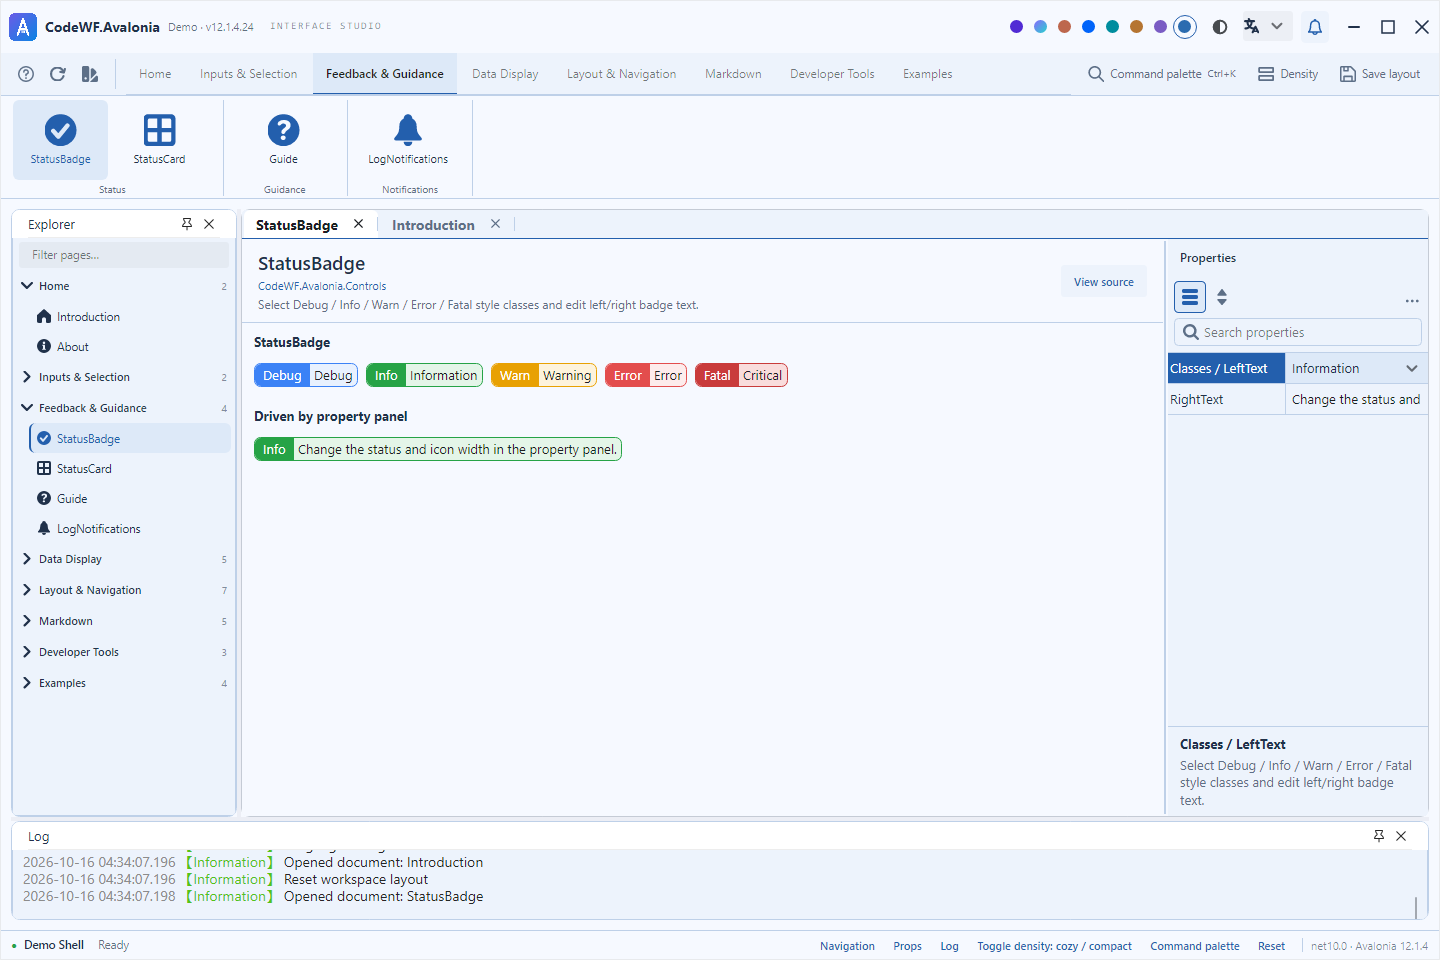
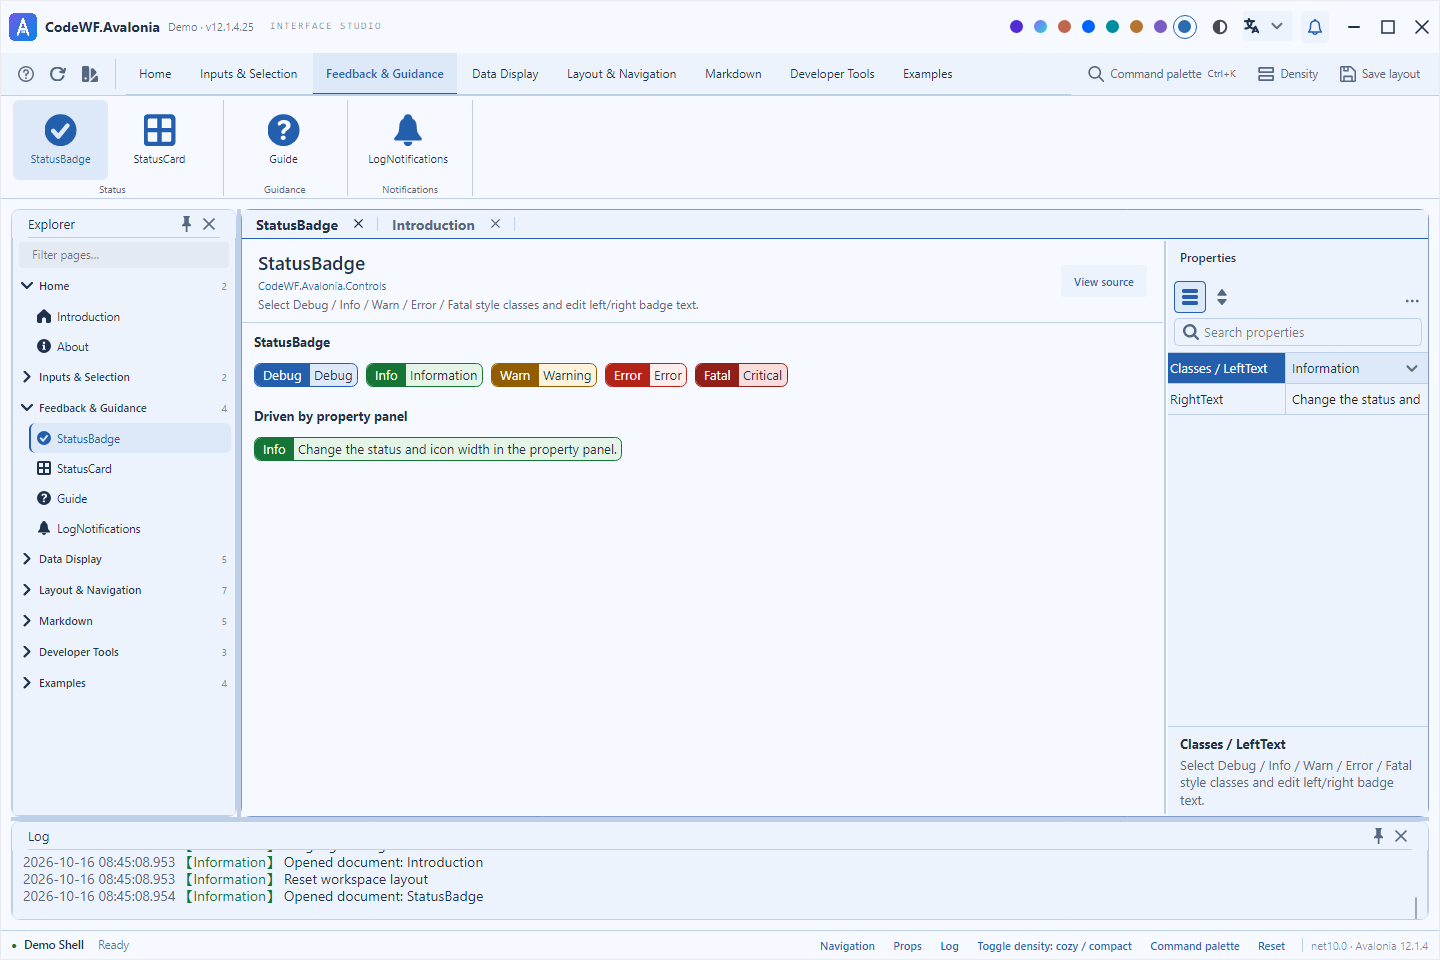
文档：记录12.1.4.25原生验收并更新真实停靠截图

diff --git a/docs/ThemeVerification.md b/docs/ThemeVerification.md
@@ -1,0 +1,44 @@
+# 配色回归与验收范围
+
+## 资源规则
+
+Studio 的八套配色各自定义浅色、深色资源；系统模式只选择明暗，不改变配色。配色源为 `src/Controls/CodeWF.Avalonia.Controls/Themes/Studio/Tokens/`，不在 C# 中根据颜色字面量推断主题。
+
+- `StudioAccent` 用于文字、图标、焦点和装饰；`StudioPrimary` 用于实心主操作。明亮装饰色不能直接与白字组合。
+- 主操作的 normal / hover / pressed 分别使用 Primary / PrimaryHover / PrimaryPressed，文字使用 OnPrimary。禁用态另用禁用资源，不以禁用样式覆盖正常态。
+- 成功、警告、失败和调试保留各自语义色；徽章的实心背景、卡片的柔和背景分别配套前景，不将所有状态都改成品牌色。
+- 文字优先使用动态资源。Markdown 编辑器、脑图和通知先尊重控件、窗口、宿主资源，再使用库默认值；切换主题时已有控件也需要更新。
+- 通知默认资源位于样式资源的低优先级位置，避免库默认值压过宿主同键资源。通知文案来自内嵌 JSON，与宿主使用同一个语言实例。
+
+库不引用 Studio 时仍提供独立 Semi Light / Dark 和原有高对比变体。Studio 原型的 CSS 色值由 `scripts/sync_design_catalog.ps1` 从同一批原生资源生成，禁止手工维护第二份颜色表。
+
+## 本轮修复
+
+`12.1.4.25` 修复徽章、状态卡片、Guide、列编辑器、下拉框、斜线、传输箭头、表格、Dock、属性面板、Markdown 行号与选区、脑图、日志及通知中的实际颜色问题。Demo 同步修复 Ribbon、命令搜索、工作流、窗口示例和状态文字；默认蓝色的 Light / Dark 也覆盖实心按钮、勾选框、滑块等第三方主题资源别名，避免只有扩展配色生效。
+
+Markdown 代码行号按代码块实际背景决定前景，不用窗口明暗猜测；代码选区采用不透明背景，避免与不同排版主题合成后使白字不可读。装饰渐变与承载白字的操作渐变分开，操作渐变连同中间插值一起检查。
+
+## 自动回归入口
+
+```powershell
+dotnet test tests/CodeWF.Avalonia.Controls.Tests -c Release
+dotnet test tests/CodeWF.Avalonia.Content.Tests -c Release
+pwsh scripts/sync_design_catalog.ps1 -Check
+pwsh scripts/sync_localization_keys.ps1 -Check
+$env:CODEWF_AUDIT_OUTPUT = 'E:/github/temp/codewf-prototype-audit'
+node design/tests/audit-prototype.cjs
+node design/tests/audit-palette.cjs
+dotnet run --project scripts/localization-verification -c Release -- --palette-audit E:/github/temp/codewf-palette-audit
+```
+
+测试加载真实模板，连续切换同一批控件的主题，并操作鼠标、编辑器和已打开的通知；不只检查资源字典中有没有颜色。普通启用态文字对最终背景至少 4.5:1，作为可辨认控件边界的图形另按 3:1 检查；禁用控件验证禁用、恢复和资源归属，不套用启用文字阈值。表格同时检查正文、表头、选中项、浮动窗口与属性弹层。
+
+原型检查使用浏览器读取最终前景和逐层合成背景，覆盖两种语言、16 个配色与明暗组合。安装器原型另有 `design/tests/audit-installer.cjs`，属于待验收提案，不修改现有安装器。
+
+两套 Demo 的 CI 在完整原生 UI 回归后，使用同一个 NativeAOT 验证器执行 `--palette-audit`；配色审计失败会阻断 CI，不只依赖本机手动运行。该检查不增加另一次原生编译。
+
+## 验收边界
+
+颜色对比通过不等于所有页面视觉一致，也不等于整页已达到 95% 还原。主题跟随、控件交互、库资源覆盖、正式 NativeAOT EXE 自检与独立原生 UI 验证分别留存结果，不能互相替代。
+
+自动离屏验证不操作用户桌面。系统窗口装饰、多 DPI、跨屏、IME、读屏软件、手工拖出和安装/升级/卸载仍需实机验收；Linux/macOS 的构建产物也不能替代对应系统上的交互验收。

diff --git a/README.md b/README.md
@@ -168,6 +168,8 @@ public class MyMarkdownThemes : MarkdownThemes
 
 ## 演示应用 / Demo
 
+八套配色的深浅资源、真实控件交互态和对比度回归见[配色验证说明](docs/ThemeVerification.md)。统一 .NET 紫安装体验见[单文件交互原型](design/CodeWF.安装器原型.html)，当前为待验收设计，尚未应用于实际安装器。
+
 Demo 保留 Ribbon + Dock，按输入与选择、反馈与引导、数据展示、布局与导航、Markdown、开发工具分类；每个主菜单对应一个具体控件或 API。首页先展示目录，组合工作流集中到“综合示例”。新增展开动画独立页，块编辑、平面表格增强与状态卡片提供具体用例。共享主题接口、MVVM 约定与截图检查见 [原生演示台文档](docs/NativeDemo.md)。
 
 文档内使用 Grid + GridSplitter 放置演示与独立属性面板，浮动时整体移动。命令区进一步按状态、引导、表格、窗口、布局动效、Markdown 阅读 / 编辑 / 导出等用途分组。参数与演示优先展示，源码按需打开；长 API 名保持完整，窄窗口可横向滚动。仓库通过 `global.json` 选择稳定版 .NET 10 SDK。
@@ -178,15 +180,15 @@ Each Dock document contains its demonstration and property panel; both move toge
 
 Windows x64 NativeAOT Demo：标题栏仅保留平铺八色点，模式复用 Ursa 三态按钮，语言图标弹出列表，默认 .NET 紫，共八套配色；浅色、深色与跟随系统分别选择。首页目录包含 32 个页面，实验区按需展开；完整功能与验收范围见上面的文档。
 
-`12.1.4.23` 修复属性编辑器响应外部值、校验回退和旧数据解绑，并补齐 Semi/Ursa 内建菜单的全局切语与宿主覆盖验证。本机正式 Windows NativeAOT、原生 UI 和安装器构建已通过，具体范围见[原生演示台文档](docs/NativeDemo.md)。
+`12.1.4.25` 修复真实控件在浅深色及八套配色下的前景/背景组合、交互状态、Markdown/脑图/通知的动态主题资源，并优化实时编辑器重复构建。本机正式 Windows NativeAOT、1024 组原生页面渲染、848 次原生对比测量和原样式安装器构建已通过，具体范围见[原生演示台文档](docs/NativeDemo.md)。
 
-以下为 `12.1.4.22` 的 Dock 文档分屏、浮动与重新停靠效果（真实 Windows NativeAOT + Skia 离屏渲染）：
+以下为 `12.1.4.25` 的 Dock 文档分屏、浮动与重新停靠效果（真实 Windows NativeAOT + Skia 离屏渲染），来源见[截图记录](docs/recheck25-native-media.md)：
 
 ![文档与属性面板同步停靠](https://raw.githubusercontent.com/dotnet9/CodeWF.Avalonia/main/docs/images/studio-dock-redocked.png)
 
 ![浮动文档保留属性面板](https://raw.githubusercontent.com/dotnet9/CodeWF.Avalonia/main/docs/images/studio-dock-floating.png)
 
-快捷入口采用 16×16 图标与 30×30 点击热区，Ribbon 主命令使用 32×32 图标。每个文档内的演示和属性面板通过 GridSplitter 调整宽度，属性默认行高 31px、名称列宽 118px。下列截图来自 `12.1.4.24` 的真实控件，普通页面通过 Skia 离屏采集，浮动与回停状态来自 NativeAOT 验证器。
+快捷入口采用 16×16 图标与 30×30 点击热区，Ribbon 主命令使用 32×32 图标。每个文档内的演示和属性面板通过 GridSplitter 调整宽度，属性默认行高 31px、名称列宽 118px。下列普通页面 PNG 和 GIF 保留 `12.1.4.24` 的真实控件媒体，通过 Skia 离屏采集；本轮两张 Dock 图单独更新为上述版本。
 
 ![.NET 紫色原生演示台](https://raw.githubusercontent.com/dotnet9/CodeWF.Avalonia/main/docs/images/studio-dotnet.png)
 

diff --git a/docs/NativeDemo.md b/docs/NativeDemo.md
@@ -1,6 +1,6 @@
-# CodeWF.Avalonia 原生 Demo
+# CodeWF.Avalonia 原生 Demo
 
-当前版本 `12.1.4.24`。Demo 使用 Ribbon + Dock，以单个控件或公开 API 为导航单位：8 个分类、32 个页面。目录由 `design/catalog.json` 统一维护，它也是 Demo 的构建输入，不能在构建前删除。
+当前版本 `12.1.4.25`。Demo 使用 Ribbon + Dock，以单个控件或公开 API 为导航单位：8 个分类、32 个页面。目录由 `design/catalog.json` 统一维护，它也是 Demo 的构建输入，不能在构建前删除。
 
 ## 窗口与演示
 
@@ -30,6 +30,8 @@ pwsh scripts/publish_avalonia_demo.ps1 -RuntimeIdentifier win-x64
 
 `scripts/localization-verification` 加载真实 App、XAML 和 Skia，在锁屏期间离屏运行；验证八色点、Ursa 内部按钮的实际点击、语言列表、1120/1440 宽度，以及 Dock 分屏 → 浮动 → 重新停靠。页面覆盖 1024 个页面/语言/配色组合。渲染数量只表示覆盖范围，不代表全页视觉还原率。
 
+`12.1.4.25` 已重新执行正式 Windows x64 NativeAOT 发布和实际 EXE 自检，确认两语输出资源、32 条内嵌目录及独立数据目录。独立原生 UI 验证器实际通过 1024 组页面渲染、后台动态切语、宿主覆盖、属性编辑和 Dock 转移；原生配色审计覆盖 16 种配色/明暗组合、848 次对比测量，失败数为 0，包括真实通知窗口及标题栏通知计数。库级测试为 Content 302 项、Controls 94 项全部通过；单文件原型通过 128 组路由/语言/宽度检查及 832 次实际文字对比，5 份 T4 映射同步。现有 Windows 安装脚本已从正式产物编译，未执行安装器；新的安装器设计仍等待用户验收。
+
 2026-10-16 的 `12.1.4.24` 使用仓库脚本发布 Windows x64 NativeAOT，正式 EXE 检查两语资源和 32 条内嵌目录。独立 NativeAOT UI 验证器覆盖八色三态、动态语言菜单、Dock 分屏／浮动／重新停靠和 1024 组目录渲染。本轮增加隐藏属性分支、真实下拉框双向切语、后台语言通知、脑图宿主覆盖和只读 Markdown 表格宽窄窗回归；保留 Semi 复制／粘贴菜单、Ursa 回退及属性编辑器业务值同步检查。279 项控件测试、5 份 T4 映射及单文件原型的 128 组路由／语言／宽度审计通过。Windows 安装器构建与实际 EXE 执行分别留存证据，不把安装器编译当作人工安装。
 
 正式 Demo 另提供 `--verify-runtime <独立目录>`：直接运行发布的 NativeAOT EXE，检查两种输出语言及全部 32 条内嵌目录，不启动窗口、不读取用户配置。Windows 发布流水线在制作安装器前执行该检查；它与加载真实控件的 UI 验证器分别验证正式产物与界面行为。
@@ -39,6 +41,8 @@ Windows 本机执行仓库发布脚本，再运行 NativeAOT 验证器并制作 
 交付原型为 `design/` 下自包含单 HTML，内嵌全部运行资源，可复制到空目录离线交互。审计实际点击全部路由、色点、三态按钮和语言菜单；窗口框架支持最小化、最大化、关闭与恢复。
 
 README 的 PNG / GIF 已于 2026-10-16 更新为 `12.1.4.24`：普通页面从当前真实控件经 Skia 离屏采集，浮动与回停截图来自正式 NativeAOT UI 验证器。展开动画使用实际控件的 32 帧采样，主题巡览使用当前页面截图；不再展示旧版本的标题栏下拉框。
+
+本轮仅将两张 Dock PNG 更新为 `12.1.4.25` 的最终原生捕获；其他媒体继续明确标注为 `12.1.4.24`，不把历史图片冒称为本轮结果。来源与哈希见 [当前原生截图来源](recheck25-native-media.md)。
 
 ## 验收边界
 

diff --git a/docs/recheck25-native-media.md b/docs/recheck25-native-media.md
@@ -1,0 +1,18 @@
+# 当前原生截图来源
+
+2026-10-16，版本 `12.1.4.25`。README 的两张 Dock PNG 从本轮 Windows x64 NativeAOT UI 验证器的原始 Skia 捕获逐字节复制，展示真实控件、文档内属性面板、浮动与重新停靠。图片来自真实 XAML，不是浏览器原型，也不是操作系统桌面截图。
+
+| 仓库图片 | 原生捕获文件 | SHA-256 |
+| --- | --- | --- |
[2 lines of base64/hex data omitted]
+
+其余普通页面 PNG 和 GIF 保留 `12.1.4.24` 的历史真实控件媒体，未将旧图片标为新版本。本轮没有重新生成整套媒体。
+
[1 lines of base64/hex data omitted]
+
+正式 EXE 的独立运行时自检确认版本、两语输出资源、32 条内嵌目录及用户配置隔离。独立原生 UI 实际通过 1024 组页面/语言/配色渲染、动态切语、资源覆盖、属性编辑和 Dock 分屏/浮动/回停。原生配色审计覆盖 16 种模式、848 次对比测量，零失败；通知窗口与通知计数均在真实控件上检查。
+
+库测试为 Content 302 项和 Controls 94 项全部通过。单文件原型另外通过 128 组路由/语言/宽度检查、832 次文字对比和通知交互，不以浏览器结果替代原生结果。
+
+界面验证通过 Headless + Skia 离屏运行，不操作用户桌面。现有 `.iss` 从不含 PDB/DBG 的正式产物副本编译并逐文件校验，未运行安装器；新的 .NET 紫安装器仍是待验收提案。多 DPI、输入法、跨屏、真实安装以及 Linux/macOS 桌面交互尚未验收，这些记录不构成全页 95% 还原率证明。
